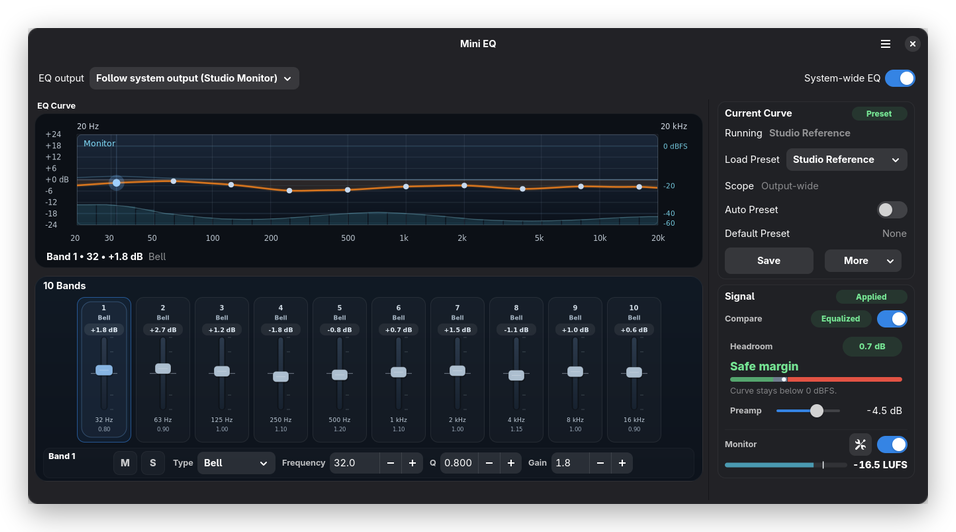
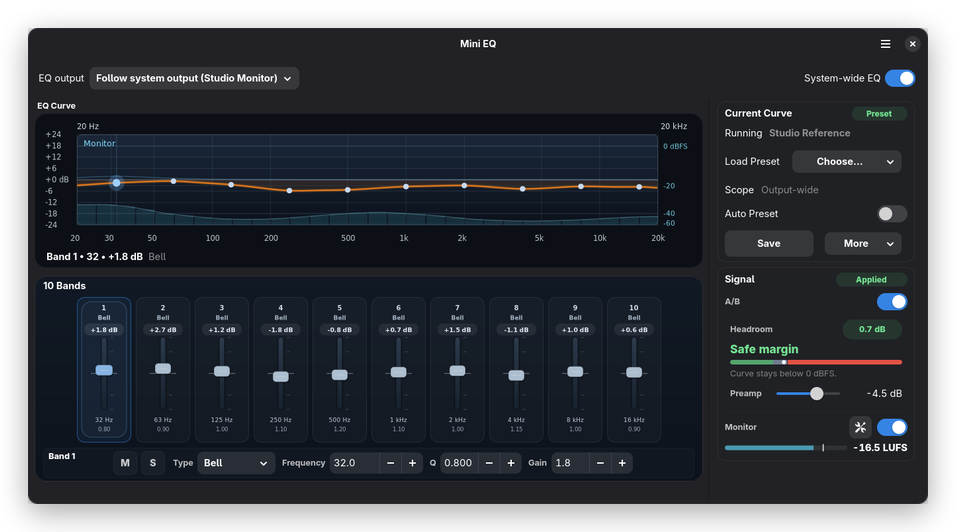
Prepare Mini EQ 0.7.1 release

Changed region(s): [[0.7584, 0.4511, 0.9707, 0.9023], [0.7584, 0.2707, 0.9404, 0.5113], [0.91, 0.3609, 0.9404, 0.4511]]

diff --git a/CHANGELOG.md b/CHANGELOG.md
@@ -1,5 +1,16 @@
 # Changelog
 
+## 0.7.1 - 2026-05-09
+
+- Fix port-aware auto presets when the active port changes on the same
+  hardware output, such as switching between built-in speakers and headphones.
+- Avoid guessing a port when PipeWire exposes ambiguous route data for one
+  output, and refresh preset handling from the observed PipeWire change.
+- Clarify unmatched-output fallback preset wording and tighten the compact
+  utility-pane layout.
+- Improve the app icon's small-size readability without changing its
+  GNOME/Flathub footprint.
+
 ## 0.7.0 - 2026-05-09
 
 - Replace the direct WirePlumber Python integration with pipewire-gobject for
